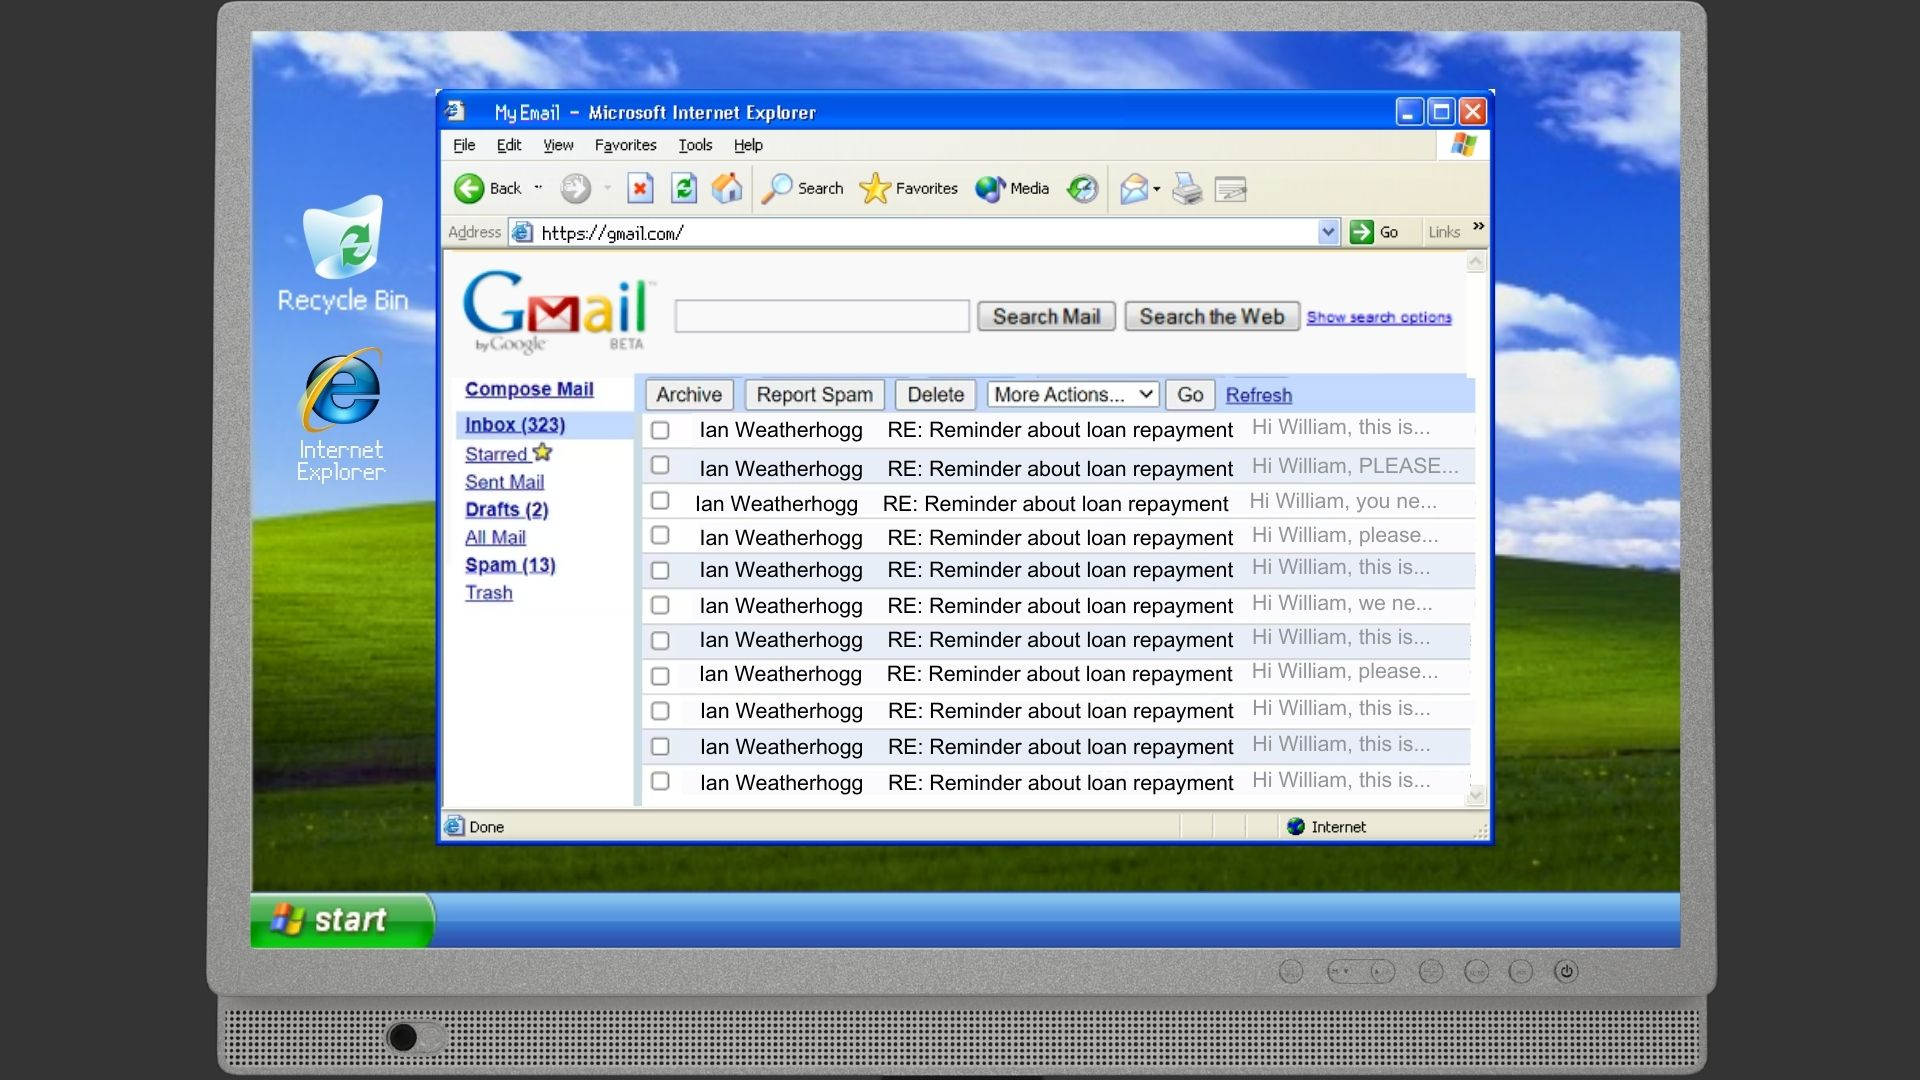
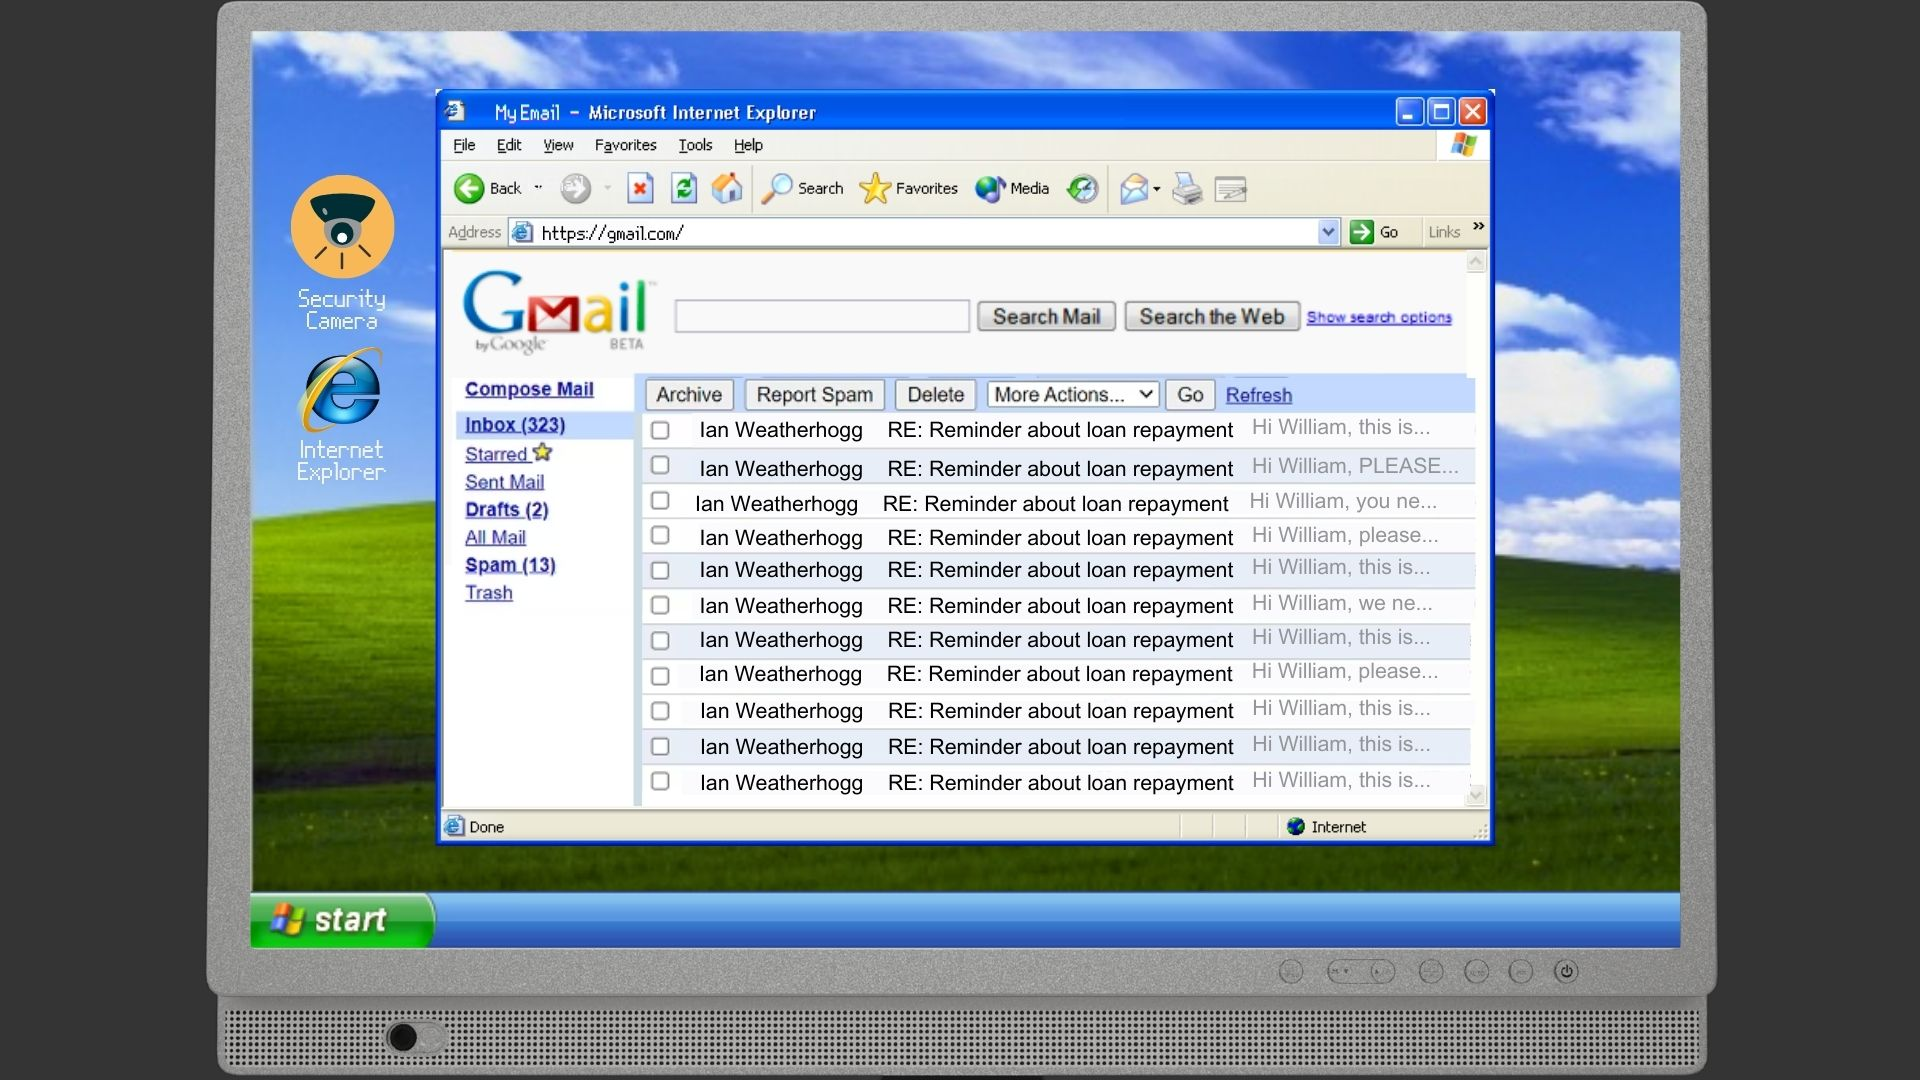
fixed the computer to have security camera app

Changed region(s): [[0.125, 0.1528, 0.2188, 0.3056]]

diff --git a/src/main/java/nz/ac/auckland/se206/controllers/ComputerClueController.java b/src/main/java/nz/ac/auckland/se206/controllers/ComputerClueController.java
@@ -29,6 +29,7 @@ public class ComputerClueController extends ClueController {
   @FXML private Rectangle rectInternetExplorer;
   @FXML private TextField passwordTxtField;
   @FXML private ImageView passwordHint;
+  @FXML private Rectangle rectSecurityCamera;
 
   @Override
   public void initialize() throws ApiProxyException {
@@ -48,12 +49,15 @@ public class ComputerClueController extends ClueController {
       case "rectEscape":
         App.setRoot("computerclue1");
         break;
+      case "rectSecurityCamera":
+        App.setRoot("computerclue4");
+        break;
     }
   }
 
   public void handlePassword(MouseEvent event) throws IOException {
     incrementPasswordGuesses();
-    if (passwordTxtField.getText().equals("williamthegoat")) {
+    if (passwordTxtField.getText().equals("willthegoat")) {
       App.setRoot("computerclue1");
       passwordHasBeenGuessed = true;
     } else if (passwordGuesses >= 2
